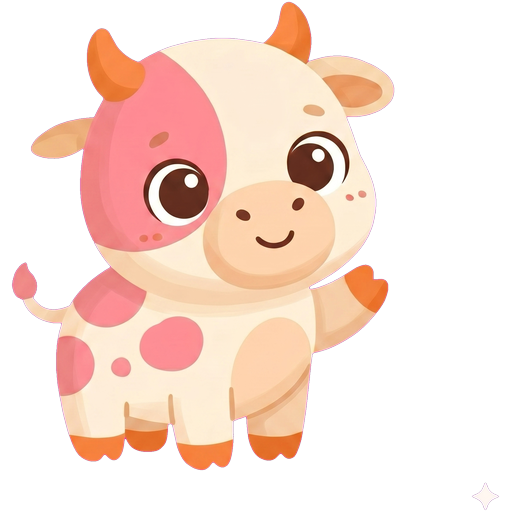
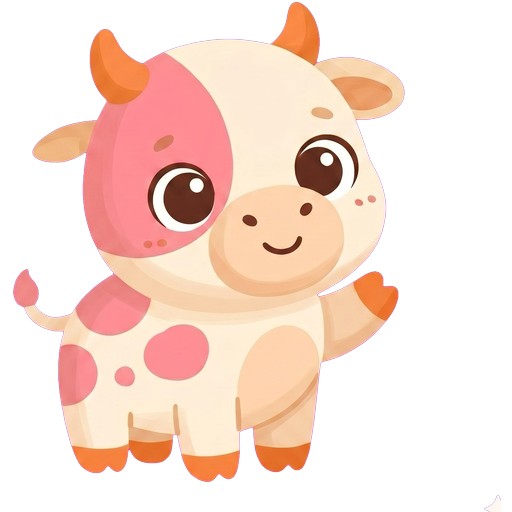
fix(art): crop Gemini sparkle from magenta-bg sprite sources
Gemini stamps a small ✦ sparkle in a corner of every output. For
sprites coming through the magenta-bg path the sparkle survived to the
bundled asset (it's not background-coloured so tight_crop preserved
it). Re-added a 5% border crop before chroma-keying so it's discarded.

remove.bg-sourced sprites already have clean edges from their own
processing, so the crop is conditional — only applied when we detect
no pre-existing alpha (i.e., a fresh Gemini output).

diff --git a/scripts/optimize_art.py b/scripts/optimize_art.py
@@ -175,6 +175,9 @@ def process_sprite(src: Path, dst: Path) -> None:
     """
     img = Image.open(src).convert("RGBA")
     if not has_meaningful_alpha(img):
+        # Fresh Gemini output — crop the small "✦" sparkle Gemini stamps
+        # into a corner, then chroma-key the magenta backdrop.
+        img = crop_border(img, 0.05)
         img = magenta_to_alpha(img)
     img = tight_crop(img)
     img = fit_into_square(img, SPRITE_SIZE)
